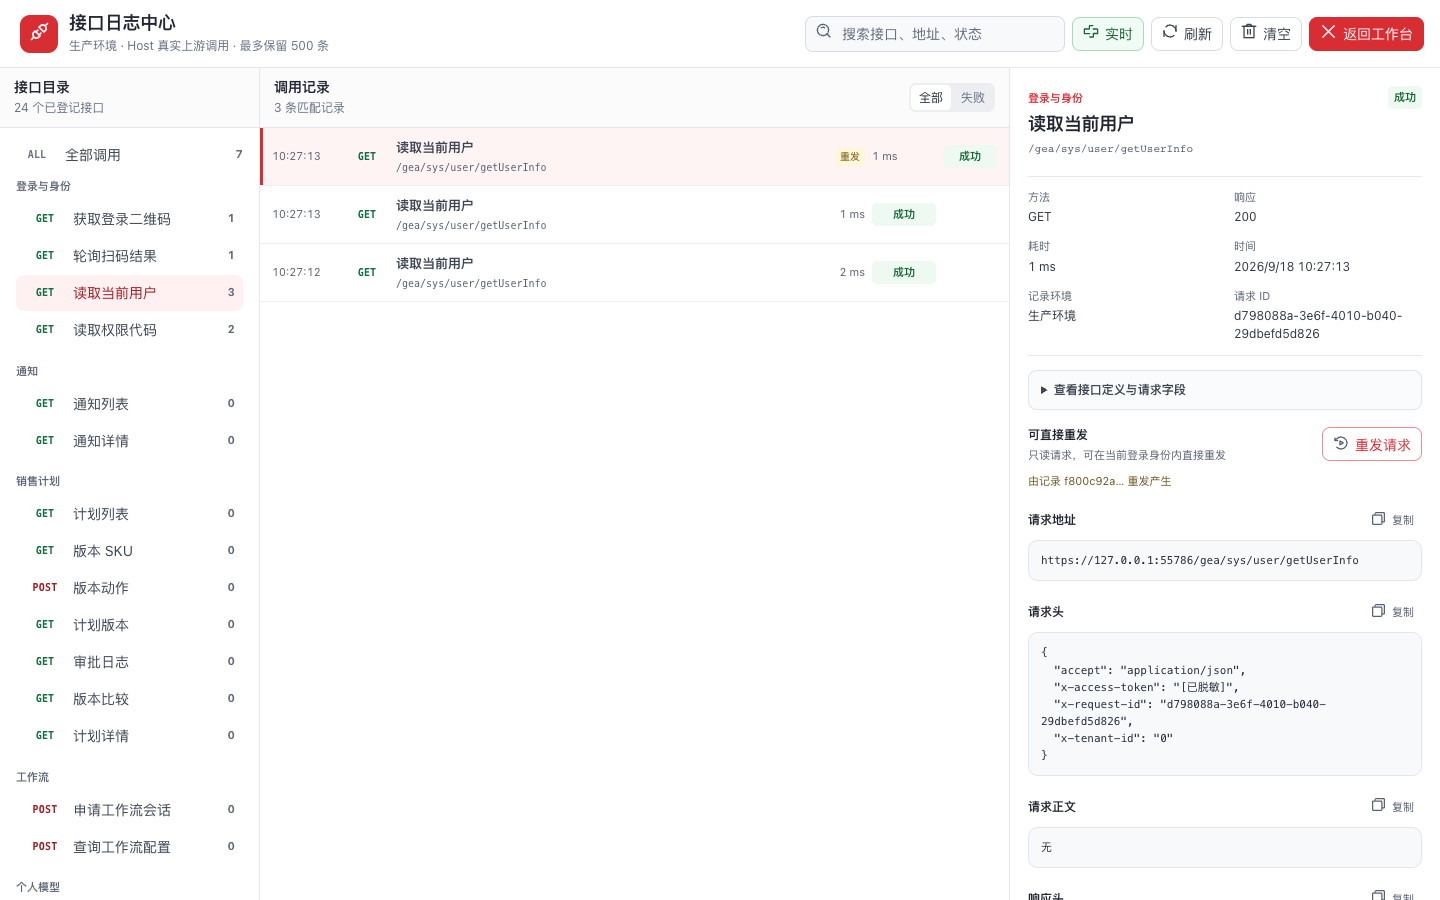
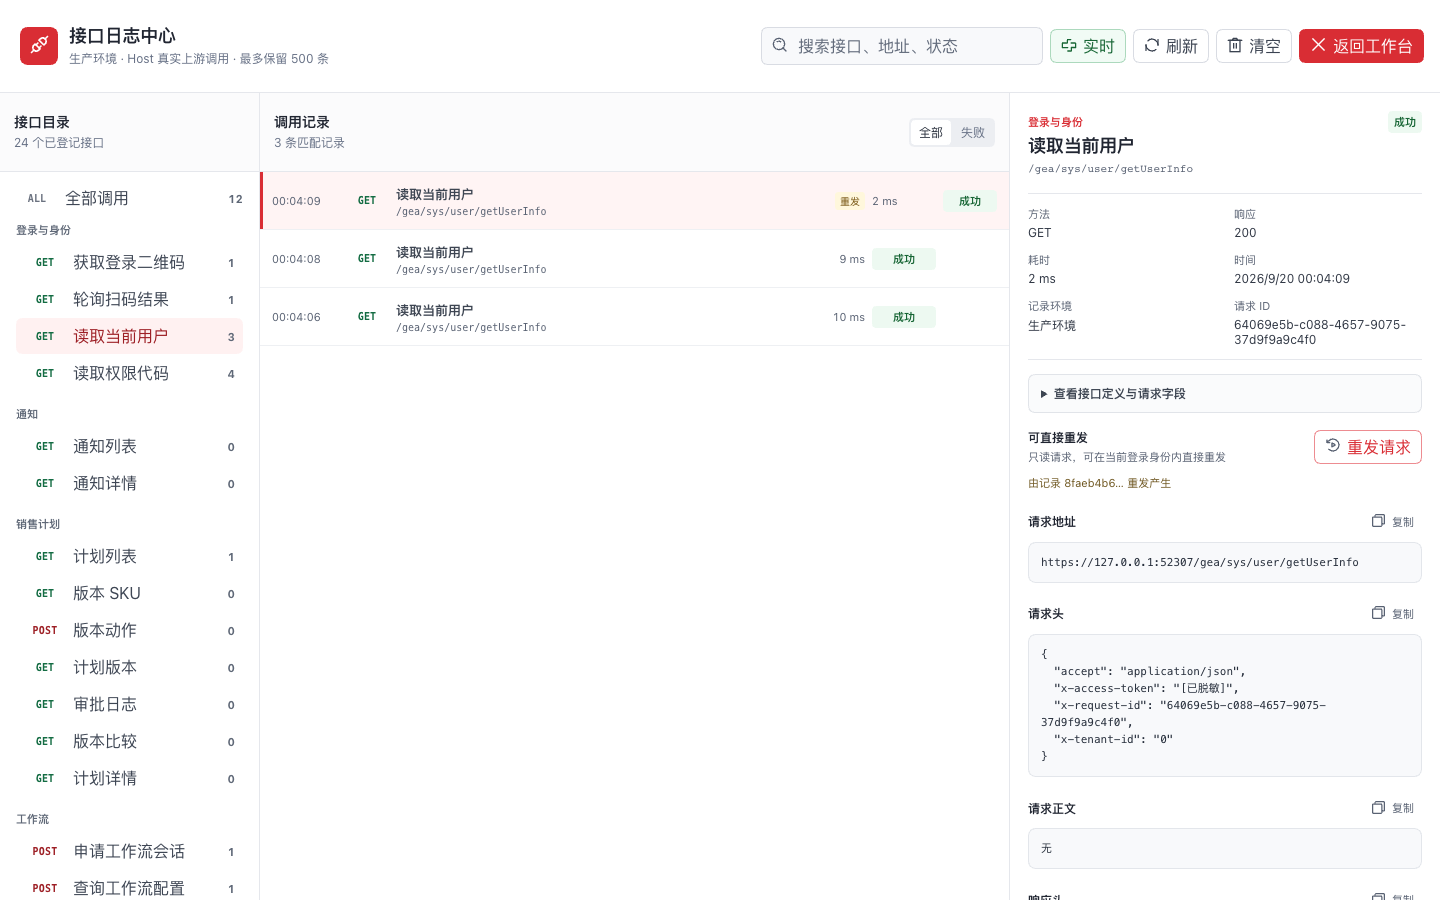
release: gea 0.0.63 shell and approval reconciliation

diff --git a/src/client.tsx b/src/client.tsx
@@ -35,16 +35,6 @@ export const inject = ["slots", "layout", "locale", "uiWorkspace", "sessions", "
 const INBOX = "gea-inbox" as MainPanelId;
 const PANEL = "gea-proof" as MainPanelId;
 const API_LOG_PANEL = "gea-api-log" as MainPanelId;
-const HTML_PLUGIN_ITEMS = [
-  ["inventory-apsboard", "产销协同看板"],
-  ["inventory-apsdemand", "需求运营管理"],
-  ["inventory-apsdelivery", "交付运营管理"],
-  ["inventory-personal", "库存管理工作台"],
-  ["inventory-aqkc", "安全库存"],
-  ["inventory-dealer", "经销商库存"],
-  ["inventory-fc", "分仓库存"],
-  ["inventory-qll", "全链路库存"],
-] as const;
 
 /** 在框架管理的原生会话旁注册仅承载业务的中心文档。 */
 export function apply(ctx: Context): void {
@@ -256,7 +246,6 @@ export function apply(ctx: Context): void {
     wide,
     expandSidebar,
   }: PropsRuntime<"sidebar.workspaces">) {
-    const [selectedPlugin, setSelectedPlugin] = useState<string | null>(null);
     const [expanded, setExpanded] = useState({ customer: true, plan: true, inventory: true });
     const activePanel = usePanelInfo((info) => info.activePanelId);
     const [panels,setPanels]=useState(()=>registeredBusinessPanels(ctx.slots.entries("main")));
@@ -279,32 +268,19 @@ export function apply(ctx: Context): void {
         </nav>
       );
     }
-    const openPlugin = (pluginId: string) => {
-      setSelectedPlugin(pluginId);
-      ctx.layout.selectPanel(PANEL);
-      if (workbenchAuthenticated && !hideWorkbenchConversation)
-        hideWorkbenchConversation = ctx.agentWorkbench.showConversation(PANEL);
-      document.querySelector<HTMLIFrameElement>("iframe[data-gea-workbench]")?.contentWindow?.postMessage(
-        { type: "gea:select-plugin", pluginId }, window.location.origin,
-      );
-    };
-    const openBusinessWorkbench = () => {
-      ctx.layout.selectPanel(PANEL);
-      if (workbenchAuthenticated && !hideWorkbenchConversation)
-        hideWorkbenchConversation = ctx.agentWorkbench.showConversation(PANEL);
-      document.querySelector<HTMLIFrameElement>("iframe[data-gea-workbench]")?.contentWindow?.postMessage(
-        { type: "gea:select-plugin", pluginId: "workbench" }, window.location.origin,
-      );
-    };
     const toggle = (section: "customer" | "plan" | "inventory") => setExpanded((value) => ({ ...value, [section]: !value[section] }));
     const item = (label: string, icon: NavIconKind, action?: () => void, active = false) => (
-      <button type="button" className={`gea-shell-nav-item${active ? " is-active" : ""}`} onClick={action}>
+      <button type="button" className={`gea-shell-nav-item${active ? " is-active" : ""}`} onClick={action} aria-current={active ? "page" : undefined}>
         <NavIcon kind={icon} /><span className="gea-shell-label">{label}</span>
       </button>
     );
-    const child = (label: string, action?: () => void, active = false) => (
-      <button type="button" className={`gea-shell-nav-child${active ? " is-active" : ""}`} onClick={action}><span className="gea-shell-label">{label}</span></button>
+    const child = ({ id, title }: { id: string; title: string }) => (
+      <button key={id} type="button" data-gea-business-entry={id} aria-current={activePanel === id ? "page" : undefined} className={`gea-shell-nav-child${activePanel === id ? " is-active" : ""}`} onClick={() => ctx.layout.selectPanel(id as MainPanelId)}><span className="gea-shell-label">{title}</span></button>
     );
+    const board = panels.find(({ id }) => id === "inventory-apsboard");
+    const customerPanels = panels.filter(({ id }) => id === "inventory-dealer");
+    const planPanels = panels.filter(({ id }) => id.startsWith("inventory-aps") && id !== "inventory-apsboard");
+    const inventoryPanels = panels.filter(({ id }) => id !== "inventory-dealer" && !id.startsWith("inventory-aps"));
     return (
       <nav
         className="gea-shell-navigation"
@@ -312,21 +288,21 @@ export function apply(ctx: Context): void {
       >
         <style>{shellCss}</style>
         <div className="gea-shell-navigation-content">
-          {item("产销协同工作台", "desktop", openBusinessWorkbench, activePanel === PANEL && selectedPlugin === null)}
+          {board && item("产销协同工作台", "desktop", () => ctx.layout.selectPanel(board.id as MainPanelId), activePanel === board.id)}
           <div className="gea-shell-nav-section">
-            <button type="button" className="gea-shell-nav-heading" onClick={() => toggle("customer")}><NavIcon kind="users" /><span>客户管理</span><Chevron open={expanded.customer} /></button>
-            {expanded.customer && <div className="gea-shell-nav-children">{child("经销商工作台", () => openPlugin("inventory-personal"))}{child("经销商库存", () => openPlugin("inventory-dealer"))}{child("经销商补货", () => openPlugin("inventory-dealer"), selectedPlugin === "inventory-dealer")}</div>}
+            <button type="button" className="gea-shell-nav-heading" aria-expanded={expanded.customer} onClick={() => toggle("customer")}><NavIcon kind="users" /><span>客户管理</span><Chevron open={expanded.customer} /></button>
+            {expanded.customer && <div className="gea-shell-nav-children">{customerPanels.map(child)}</div>}
           </div>
           <div className="gea-shell-nav-section">
-            <button type="button" className="gea-shell-nav-heading" onClick={() => toggle("plan")}><NavIcon kind="calendar" /><span>计划管理</span><Chevron open={expanded.plan} /></button>
-            {expanded.plan && <div className="gea-shell-nav-children">{child("计划管理工作台", openBusinessWorkbench)}{child("销售计划")}{child("生产计划")}{child("排产计划")}</div>}
+            <button type="button" className="gea-shell-nav-heading" aria-expanded={expanded.plan} onClick={() => toggle("plan")}><NavIcon kind="calendar" /><span>计划管理</span><Chevron open={expanded.plan} /></button>
+            {expanded.plan && <div className="gea-shell-nav-children">{child({ id: PANEL, title: t("demandForecastAgent") })}{planPanels.map(child)}</div>}
           </div>
           <div className="gea-shell-nav-section">
-            <button type="button" className="gea-shell-nav-heading" onClick={() => toggle("inventory")}><NavIcon kind="warehouse" /><span>库存管理</span><Chevron open={expanded.inventory} /></button>
-            {expanded.inventory && <div className="gea-shell-nav-children">{child("库存管理工作台", () => openPlugin("inventory-personal"), selectedPlugin === "inventory-personal")}{child("全链库存", () => openPlugin("inventory-qll"), selectedPlugin === "inventory-qll")}{child("基地库存", () => openPlugin("inventory-aqkc"), selectedPlugin === "inventory-aqkc")}{child("分仓库存", () => openPlugin("inventory-fc"), selectedPlugin === "inventory-fc")}</div>}
+            <button type="button" className="gea-shell-nav-heading" aria-expanded={expanded.inventory} onClick={() => toggle("inventory")}><NavIcon kind="warehouse" /><span>库存管理</span><Chevron open={expanded.inventory} /></button>
+            {expanded.inventory && <div className="gea-shell-nav-children">
+              {inventoryPanels.map(child)}
+            </div>}
           </div>
-          <button type="button" onClick={() => ctx.layout.selectPanel(PANEL)} title={t("demandForecastAgent")} aria-label={t("demandForecastAgent")} className={`gea-shell-child${activePanel === PANEL ? " is-active" : ""}`}><span className="gea-shell-label">{t("demandForecastAgent")}</span></button>
-          {panels.map(item=><button key={item.id} type="button" data-gea-business-entry={item.id} title={item.title} aria-current={activePanel===item.id?"page":undefined} onClick={()=>ctx.layout.selectPanel(item.id as MainPanelId)} className={`gea-shell-child${activePanel===item.id?" is-active":""}`}><span className="gea-shell-label">{item.title}</span></button>)}
         </div>
       </nav>
     );
@@ -629,15 +605,26 @@ export function apply(ctx: Context): void {
         )}
         {conversationHero && createPortal(
           <AgentWelcome onPrompt={(prompt) => {
-            const input = conversationHero.querySelector<HTMLElement>("textarea, [contenteditable='true']");
+            const conversation = document.querySelector<HTMLElement>(
+              ".AppFrame_rightbarCol [data-slot='main.conversation']",
+            ) ?? conversationHero;
+            const input = Array.from(
+              conversation.querySelectorAll<HTMLElement>("textarea, [contenteditable='true']"),
+            ).find((element) => element.getClientRects().length > 0 && !element.hasAttribute("disabled"));
             if (!input) return;
             if (input instanceof HTMLTextAreaElement) {
               const setter = Object.getOwnPropertyDescriptor(HTMLTextAreaElement.prototype, "value")?.set;
               setter?.call(input, prompt);
             } else {
-              input.textContent = prompt;
+              input.focus();
+              document.execCommand("selectAll", false);
+              if (!document.execCommand("insertText", false, prompt)) {
+                input.replaceChildren(document.createTextNode(prompt));
+                input.dispatchEvent(new InputEvent("input", { bubbles: true, inputType: "insertText", data: prompt }));
+              }
             }
-            input.dispatchEvent(new InputEvent("input", { bubbles: true, inputType: "insertText", data: prompt }));
+            if (input instanceof HTMLTextAreaElement)
+              input.dispatchEvent(new InputEvent("input", { bubbles: true, inputType: "insertText", data: prompt }));
             input.focus();
           }} />,
           conversationHero,

diff --git a/src/host/html-gateway.ts b/src/host/html-gateway.ts
@@ -42,6 +42,12 @@ export async function prepareGatewayLaunch(
   identity.throwIfAborted();
   const result = payload?.result;
   const context = result?.gatewayContext;
+  if (result?.accessDecision?.allowed === false && result.accessDecision.code === "AGENT_ACCESS_DENIED") {
+    throw Object.assign(
+      new Error("当前账号无权访问此工作台，请联系管理员开通对应 Agent 权限。"),
+      { code: "AGENT_ACCESS_DENIED", retryable: false },
+    );
+  }
   if (
     payload?.success !== true ||
     result?.accessDecision?.allowed !== true ||

diff --git a/docs/releases/0.0.63.md b/docs/releases/0.0.63.md
@@ -1,0 +1,9 @@
+# GEA 0.0.63
+
+整合业务导航与会话侧栏，业务入口直接打开已注册工作台；保留审批工作台的退回拦截、草稿验证及编辑汇总改动。
+
+- 接入 HTML 插件的权限会话与只读 SQL 桥接，权限不足时显示明确提示。
+- 修复登录恢复、空查询结果、旧版库存 SQL 桥接与业务导航重复入口。
+- 保留历史审批修复，同步退回记录不可普通审批的测试口径。
+
+仅发布 GEA 插件，不重打桌面客户端。需求预测测试文档 V1.7 尚未完成的项目不作为本版完成承诺。
